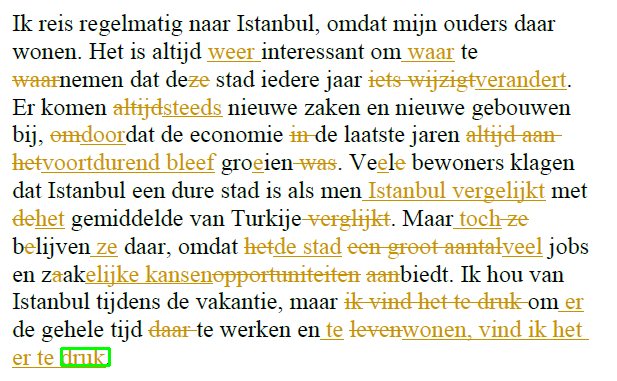
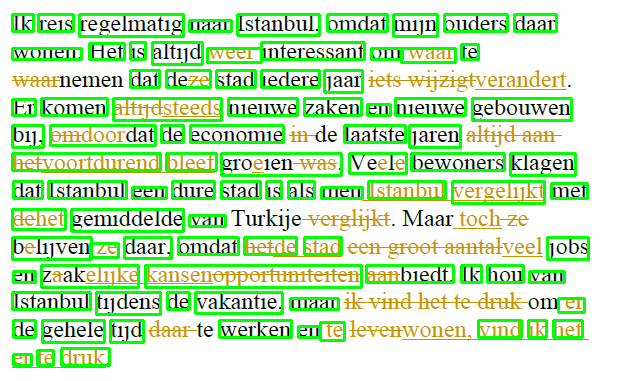
fix OCR vis

Changed region(s): [[0.0, 0.0289, 0.9546, 0.9816], [0.7699, 0.7795, 0.9546, 0.895]]

diff --git a/Utils/TesseractOCR/TextDetectionVis.py b/Utils/TesseractOCR/TextDetectionVis.py
@@ -12,13 +12,13 @@ class TextDetectionVis:
       # detect words
       data = pytesseract.image_to_data(PIL.Image.open(image_file_path), config=config, output_type=Output.DICT)
       n_boxes = len(data['text'])
-      for i in range (n_boxes):
-          if float(data['conf'][i]) > 80:
-              img = cv2.imread(image_file_path)
+      img = cv2.imread(image_file_path)  # Move this line outside of the loop
+      for i in range(n_boxes):
+          if float(data['conf'][i]) > 60:
               height, width, _ = img.shape
-              (x,y, width, height) = (data['left'][i], data['top'][i], data['width'][i], data['height'][i])
+              (x, y, width, height) = (data['left'][i], data['top'][i], data['width'][i], data['height'][i])
               img = cv2.rectangle(img, (x, y), (x + width, y + height), (0, 255, 0), 2)
-              cv2.imwrite(os.path.join(output_folder, image_file), img)
+      cv2.imwrite(os.path.join(output_folder, image_file), img)  # Move this line outside of the loop too
               
       """
       boxes = pytesseract.image_to_boxes(PIL.Image.open(image_file_path), config=config)
